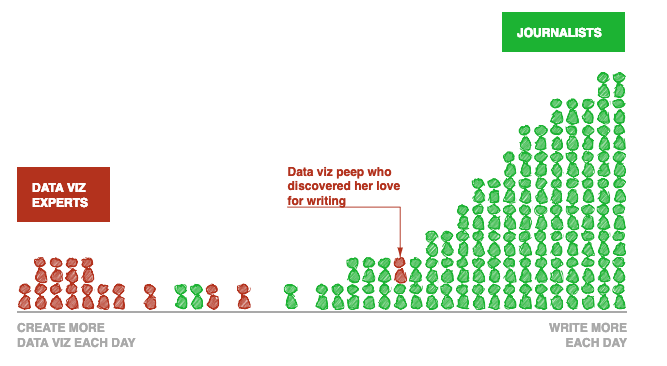
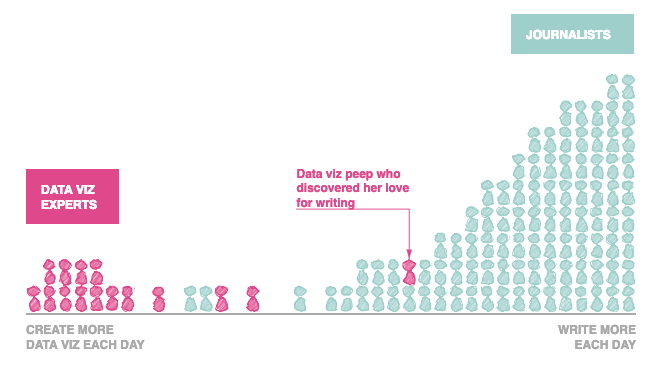
better colors for charts, and images

diff --git a/src/examples/CanvasInteraction.js b/src/examples/CanvasInteraction.js
@@ -1,11 +1,11 @@
-import React from "react";
-import DocumentFrame from "../DocumentFrame";
-import { XYFrame } from "semiotic";
-import { csvParse } from "d3-dsv";
+import React from "react"
+import DocumentFrame from "../DocumentFrame"
+import { XYFrame } from "semiotic"
+import { csvParse } from "d3-dsv"
 
-import theme from "../theme";
-import MarkdownText from "../MarkdownText";
-const ROOT = process.env.PUBLIC_URL;
+import theme from "../theme"
+import MarkdownText from "../MarkdownText"
+const ROOT = process.env.PUBLIC_URL
 
 const cutHash = {
   Ideal: theme[0],
@@ -14,7 +14,7 @@ const cutHash = {
   "Very Good": theme[3],
   Fair: theme[4],
   Premium: theme[5]
-};
+}
 
 const frameProps = {
   size: [700, 500],
@@ -46,9 +46,9 @@ const frameProps = {
               ""} here`}
         </p>
       </div>
-    );
+    )
   }
-};
+}
 
 const overrideProps = {
   tooltipContent: `d => {
@@ -67,16 +67,16 @@ const overrideProps = {
     );
   }
   `
-};
+}
 
 export default class CanvasInteraction extends React.Component {
   constructor(props) {
-    super(props);
+    super(props)
 
     fetch(`${ROOT}/data/diamonds.csv`)
       .then(response => response.text())
       .then(data => {
-        const parsedDiamonds = [];
+        const parsedDiamonds = []
         csvParse(data).forEach(d => {
           parsedDiamonds.push({
             y: +d.price,
@@ -84,11 +84,11 @@ export default class CanvasInteraction extends React.Component {
             size: +d.table,
             color: cutHash[d.cut],
             clarity: d.clarity
-          });
-        });
-        this.setState({ ...frameProps, points: parsedDiamonds });
+          })
+        })
+        this.setState({ ...frameProps, points: parsedDiamonds })
       })
-      .catch(err => console.log(err));
+      .catch(err => console.log(err))
   }
 
   render() {
@@ -112,6 +112,6 @@ Ridgeline Plots show variation across values and allow overflowing of the plot i
           />
         )}
       </div>
-    );
+    )
   }
 }

diff --git a/src/MarkdownPage.js b/src/MarkdownPage.js
@@ -1,29 +1,29 @@
-import React from "react";
+import React from "react"
 
-import marked from "marked";
-const ROOT = process.env.PUBLIC_URL;
+import marked from "marked"
+const ROOT = process.env.PUBLIC_URL
 
 export default class MarkdownPage extends React.Component {
-  state = {};
+  state = {}
 
   componentWillMount() {
-    this.getFile(this.props);
+    this.getFile(this.props)
   }
 
   componentWillReceiveProps(nextProps) {
     if (nextProps.filename !== this.props.filename) {
-      this.setState({ markdown: null });
-      this.getFile(nextProps);
+      this.setState({ markdown: null })
+      this.getFile(nextProps)
     }
   }
 
   getFile({ filename }) {
     if (filename) {
-      const readmePath = `${ROOT}/assets/markdown/${filename}.md?nocache=${new Date()}`;
+      const readmePath = `${ROOT}/assets/markdown/${filename}.md?nocache=${new Date()}`
 
       fetch(readmePath)
         .then(response => {
-          return response.text();
+          return response.text()
         })
         .then(text => {
           this.setState(
@@ -37,25 +37,24 @@ export default class MarkdownPage extends React.Component {
             },
             () => {
               if (window.location.hash) {
-                const element = document.querySelector(window.location.hash);
-                console.log("scrolling here");
-                element && element.scrollIntoView();
+                const element = document.querySelector(window.location.hash)
+                element && element.scrollIntoView()
               }
             }
-          );
-          window.Prism.highlightAll();
-        });
+          )
+          window.Prism.highlightAll()
+        })
     }
   }
 
   render() {
-    const { markdown } = this.state;
+    const { markdown } = this.state
 
     return (
       <div
         className="markdown"
         dangerouslySetInnerHTML={{ __html: markdown }}
       />
-    );
+    )
   }
 }

diff --git a/src/examples/Matrix.js b/src/examples/Matrix.js
@@ -1,10 +1,8 @@
-import React from "react";
-import DocumentFrame from "../DocumentFrame";
-import { NetworkFrame } from "semiotic";
-import theme from "../theme";
-import MarkdownText from "../MarkdownText";
-
-// const ROOT = process.env.PUBLIC_URL;
+import React from "react"
+import DocumentFrame from "../DocumentFrame"
+import { NetworkFrame } from "semiotic"
+import theme from "../theme"
+import MarkdownText from "../MarkdownText"
 
 const nodes = [
   { name: "Myriel", group: 1 },
@@ -84,7 +82,7 @@ const nodes = [
   { name: "Child2", group: 10 },
   { name: "Brujon", group: 4 },
   { name: "Mme.Hucheloup", group: 8 }
-];
+]
 
 const edges = [
   { source: 1, target: 0, value: 1 },
@@ -341,34 +339,14 @@ const edges = [
   { source: 76, target: 62, value: 1 },
   { source: 76, target: 48, value: 1 },
   { source: 76, target: 58, value: 1 }
-];
+]
 
 edges.forEach(link => {
-  link.source = nodes[link.source];
-  link.target = nodes[link.target];
-});
+  link.source = nodes[link.source]
+  link.target = nodes[link.target]
+})
 
-const colors = [
-  "darkred",
-  "darkgreen",
-  "orange",
-  "pink",
-  "gold",
-  "steelblue",
-  "purple",
-  "brown",
-  "teal",
-  "darkred",
-  "darkgreen",
-  "orange",
-  "pink",
-  "gold",
-  "steelblue",
-  "purple",
-  "brown",
-  "teal"
-];
-
+const colors = theme
 const frameProps = {
   size: [1400, 1400],
   // projection: "horizontal",
@@ -391,7 +369,7 @@ const frameProps = {
       style: { fill: "orange", fillOpacity: 0.25, stroke: "red" }
     }
   ]
-};
+}
 
 const overrideProps = {
   title: `(
@@ -427,7 +405,7 @@ const overrideProps = {
       </text>
     </g>
   ]`
-};
+}
 
 export default function SwarmPlot() {
   return (
@@ -449,5 +427,5 @@ const theme = ${JSON.stringify(theme)}
         useExpanded
       />
     </div>
-  );
+  )
 }

diff --git a/src/examples/IsotypeChart.js b/src/examples/IsotypeChart.js
@@ -59,12 +59,12 @@ const iconHash = {
   none: "M0,0"
 }
 const colorHash = {
-  journalist: "#1db333",
-  viz: "#b3331d"
+  journalist: theme[2],
+  viz: theme[1]
 }
 
 const frameProps = {
-  size: [700, 438],
+  size: [700, 368],
   data: vizzers,
   type: {
     type: "bar",
@@ -82,7 +82,7 @@ const frameProps = {
     fillOpacity: 1,
     strokeWidth: 1.5
   }),
-  margin: { top: 60, bottom: 140, left: 10, right: 80 },
+  margin: { top: 60, bottom: 70, left: 10, right: 80 },
   oPadding: 2,
   annotations: [
     {
@@ -90,7 +90,7 @@ const frameProps = {
       number: 2,
       dx: -0.01,
       dy: -50,
-      color: "#b3331d",
+      color: theme[1],
       type: AnnotationCalloutElbow,
       note: { title: "Data viz peep who discovered her love for writing" }
     }
@@ -100,7 +100,7 @@ const frameProps = {
   foregroundGraphics: (
     <g>
       <g transform="translate(20,165)">
-        <rect fill="#b3331d" x={-10} y={-10} width={93} height={55} />
+        <rect fill={theme[1]} x={-10} y={-10} width={93} height={55} />
         <text fontWeight="700" fill="white" x={5} y={15}>
           DATA VIZ
         </text>
@@ -109,7 +109,7 @@ const frameProps = {
         </text>
       </g>
       <g transform="translate(505,10)">
-        <rect fill="#1db333" x={-10} y={-10} width={123} height={40} />
+        <rect fill={theme[2]} x={-10} y={-10} width={123} height={40} />
         <text fontWeight="700" fill="white" x={5} y={15}>
           JOURNALISTS
         </text>

diff --git a/src/guides/CreateCrossHighlighting.js b/src/guides/CreateCrossHighlighting.js
@@ -274,7 +274,6 @@ Highlight annotations will return all points, lines and areas that match the id 
             {
               type: "highlight",
               style: d => {
-                console.log(d)
                 return {
                   strokeWidth: 3,
                   stroke: theme[d.key],

diff --git a/src/examples/HomerunMap.js b/src/examples/HomerunMap.js
@@ -12,7 +12,7 @@ const velocityExtent = extent(data.map(d => d.exit_velocity))
 const velocityScale = scaleLinear()
   .domain(velocityExtent)
   .range([theme[2], theme[1]])
-// console.log(data, fieldGraphic)
+
 const frameProps = {
   points: data,
   annotations: [

diff --git a/src/App.js b/src/App.js
@@ -161,7 +161,8 @@ export const PAGES = [
       {
         name: "Annotations - Tooltips",
         url: "tooltips",
-        component: Tooltips
+        component: Tooltips,
+        img: "tooltips"
       },
 
       {

diff --git a/src/guides/CreateXYBrushes.js b/src/guides/CreateXYBrushes.js
@@ -87,8 +87,6 @@ export default class CreateXYBrushes extends React.Component {
         size: [700, 50]
       }
     }
-
-    // console.log(this.state)
     return (
       <div>
         <MarkdownText

diff --git a/src/SubPage.js b/src/SubPage.js
@@ -8,7 +8,6 @@ export default function SubPage({ page }) {
   if (!match) return null
 
   const pages = match.children
-  // console.log(pages, match)
 
   return (
     <div className="subpages">
